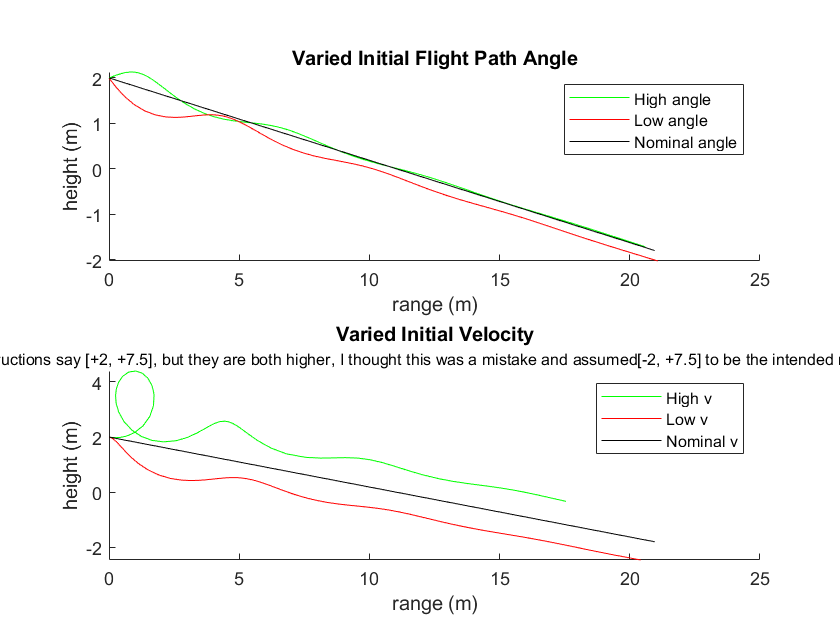
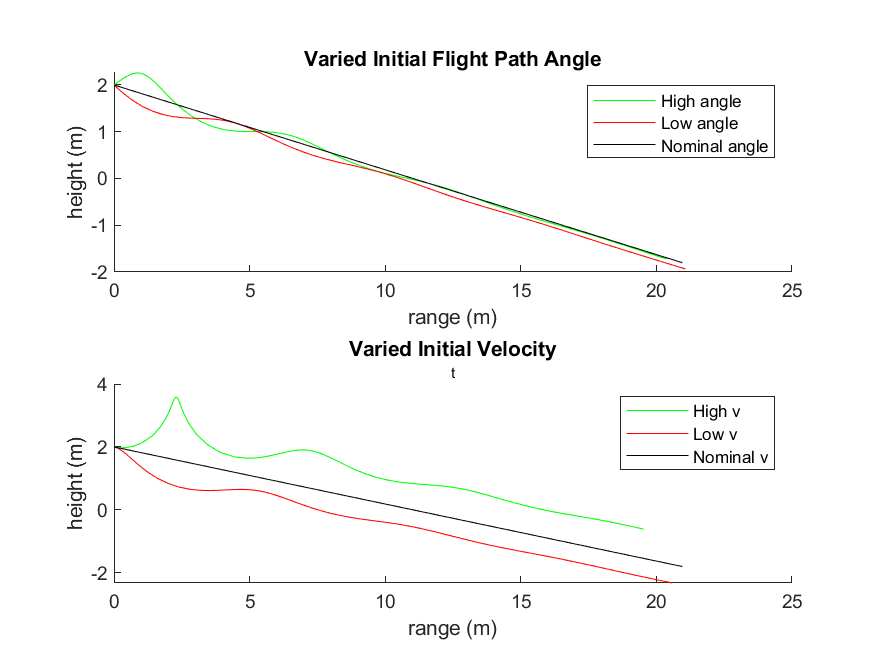
fixed single variable numbers

diff --git a/PaperPlane.m b/PaperPlane.m
@@ -32,17 +32,17 @@
 
 %% Part 2
 
-    xo		=	[V;Gam+.4;H;R];
+    xo		=	[V;.4;H;R];
 	[ta,xahighgamma]	=	ode23('EqMotion',tspan,xo);
-    xo		=	[V;Gam-.5;H;R];
+    xo		=	[V;-.5;H;R];
 	[ta,xalowgamma]	=	ode23('EqMotion',tspan,xo);
 
-    xo		=	[V+7.5;Gam;H;R];
+    xo		=	[7.5;Gam;H;R];
 	[ta,xahighv]	=	ode23('EqMotion',tspan,xo);
-    xo		=	[V-2;Gam;H;R];
+    xo		=	[2;Gam;H;R];
 	[ta,xalowv]	=	ode23('EqMotion',tspan,xo);
    
-	figure
+	plot1 = figure;
     title("test")
     subplot(2,1,1);
     title("Varied Initial Flight Path Angle")
@@ -56,7 +56,7 @@
 
      subplot(2,1,2);
     title("Varied Initial Velocity")
-    subtitle("Instructions say [+2, +7.5], but they are both higher, I thought this was a mistake and assumed[-2, +7.5] to be the intended numbers",FontSize=7)
+    subtitle("t",FontSize=7)
     hold on 
     plot(xahighv(:,4),xahighv(:,3), color= [0,1,0])
     plot(xalowv(:,4),xalowv(:,3), color = [1,0,0])
@@ -64,21 +64,25 @@
     legend("High v", "Low v", "Nominal v")
     xlabel("range (m)")
     ylabel("height (m)")
+
+    saveas(plot1, 'docs/controlledvariation.png');
     hold off
 
-%% Part 3
+
+
+%% Part 3/4
     %pmin + (pmax-pmin)*rand(1)
     tspan = to:.1:tf;
     rangearray = [];
     heightarray = [];
     timearray = [tspan];
 
-    figure
+    plot2 = figure;
     hold on
     for i = 0:100
         randv = rand;
         randg = rand;
-        xo = [1.55 + 9.5*randv;-0.68 + 0.9*randg;H;R];
+        xo = [2 + 7.5*randv;-0.5 + 0.4*randg;H;R];
 	[ta,xr]	= ode23('EqMotion',tspan,xo);
     plot(xr(:,4),xr(:,3), color = [randv,randg,0])
     subtitle("Red = higher V, green = higher angle, black = average curve fit")
@@ -90,27 +94,31 @@
     xlabel("range (m)")
     ylabel("height (m)")
 
- %% Part 4 
-    n = 15 % degree polynomial
+    
 
-    p = polyfit(timearray, mean(heightarray),n)
+ % Part 4 
+    n = 9; % degree polynomial
+
+    p = polyfit(timearray, mean(heightarray),n);
     avgheight = polyval(p, timearray);
   
-    p = polyfit(timearray, mean(rangearray),n)
+    p = polyfit(timearray, mean(rangearray),n);
     avgrange = polyval(p, timearray);
     plot(avgrange,avgheight, LineWidth=3, color= [0,0,0])
     hold off
-    figure
-    hold on
-    plot(timearray, avgheight, LineWidth=2)
-    plot(timearray, avgrange, LineWidth=2)
-    legend("Average height", "Average range")
-    xlabel("time (s)")
-    ylabel("(m)")
+    saveas(plot2, 'docs/randomvariation.png');
+
+    % figure        I dont think this was needed
+    % hold on
+    % plot(timearray, avgheight, LineWidth=2)
+    % plot(timearray, avgrange, LineWidth=2)
+    % legend("Average height", "Average range")
+    % xlabel("time (s)")
+    % ylabel("(m)")
 
  %% Part 5
     
-    figure
+    plot3 = figure;
     subplot(2,1,1)
     plot(trimdata(timearray,60),diff(avgrange), linewidth = 1)
     title("Change in average range (x velocity)")
@@ -121,6 +129,7 @@
     title("Change in average height (y velocity)")
     xlabel("time (s)")
     ylabel("(m/s)")
+    saveas(plot3, 'docs/xyvelocity.png');
 
 
 

diff --git a/README.md b/README.md
@@ -20,14 +20,15 @@
   2D trajectory simulated by varying single parameter at at time
   ![](https://github.com/DannyKurimay/AEM3013/blob/master/docs/controlledvariation.png)
   
-  Top subplot shows 2D trajectory of paper airplane at Initial velocity = 3.55 m/s, Initial flight path angle = [0.22,-0.68,-0.18], where -0.18 is nominal
-   Bottom subplot shows 2D trajectory of paper airplane at Initial flight path angle = -0.18, Initial velocity = [11.05,1.55,3.55], where 3.55 is nominal
+  Top subplot shows 2D trajectory of paper airplane at Initial velocity = 3.55 m/s, Initial flight path angle = [0.4,-.18,-0.5], where -0.18 is nominal
+  Bottom subplot shows 2D trajectory of paper airplane at Initial flight path angle = -0.18 rad, Initial velocity = [2,3.55,7.5], where 3.55 is nominal
 
   ## Fig. 2: Monte Carlo Simulation
   2D trajectories simulated using random sampling of parameters, overlayed polynomial fit onto plot.
   ![](https://github.com/DannyKurimay/AEM3013/blob/master/docs/randomvariation.png)
 
-  100 2D trajectory simulations at random velocity from 1.55 m/s (black) to 11.05 (red), and random flight path angle from -0.68 rad (black) to 0.22 (green)
+  100 2D trajectory simulations at random velocity from 2 m/s (black) to 7.5 (red), and random flight path angle from -0.5 rad (black) to 0.4 (green)
+  9th order polynomial fit
 
  ## Fig. 3: Time Derivatives
  Time-derivative of height and range for the fitted trajectory
@@ -35,4 +36,6 @@
 ![](https://github.com/DannyKurimay/AEM3013/blob/master/docs/xyvelocity.png)
 
 
-  Time derivative of x and y position (x and y velocity)
+  Time derivative of x and y position is x and y velocity.  
+  The graph makes sense because the y velocity is generally negative, meaning the airplane is slowly falling,
+  and the x velocity is generally postive because the airplane tends to move forward.
